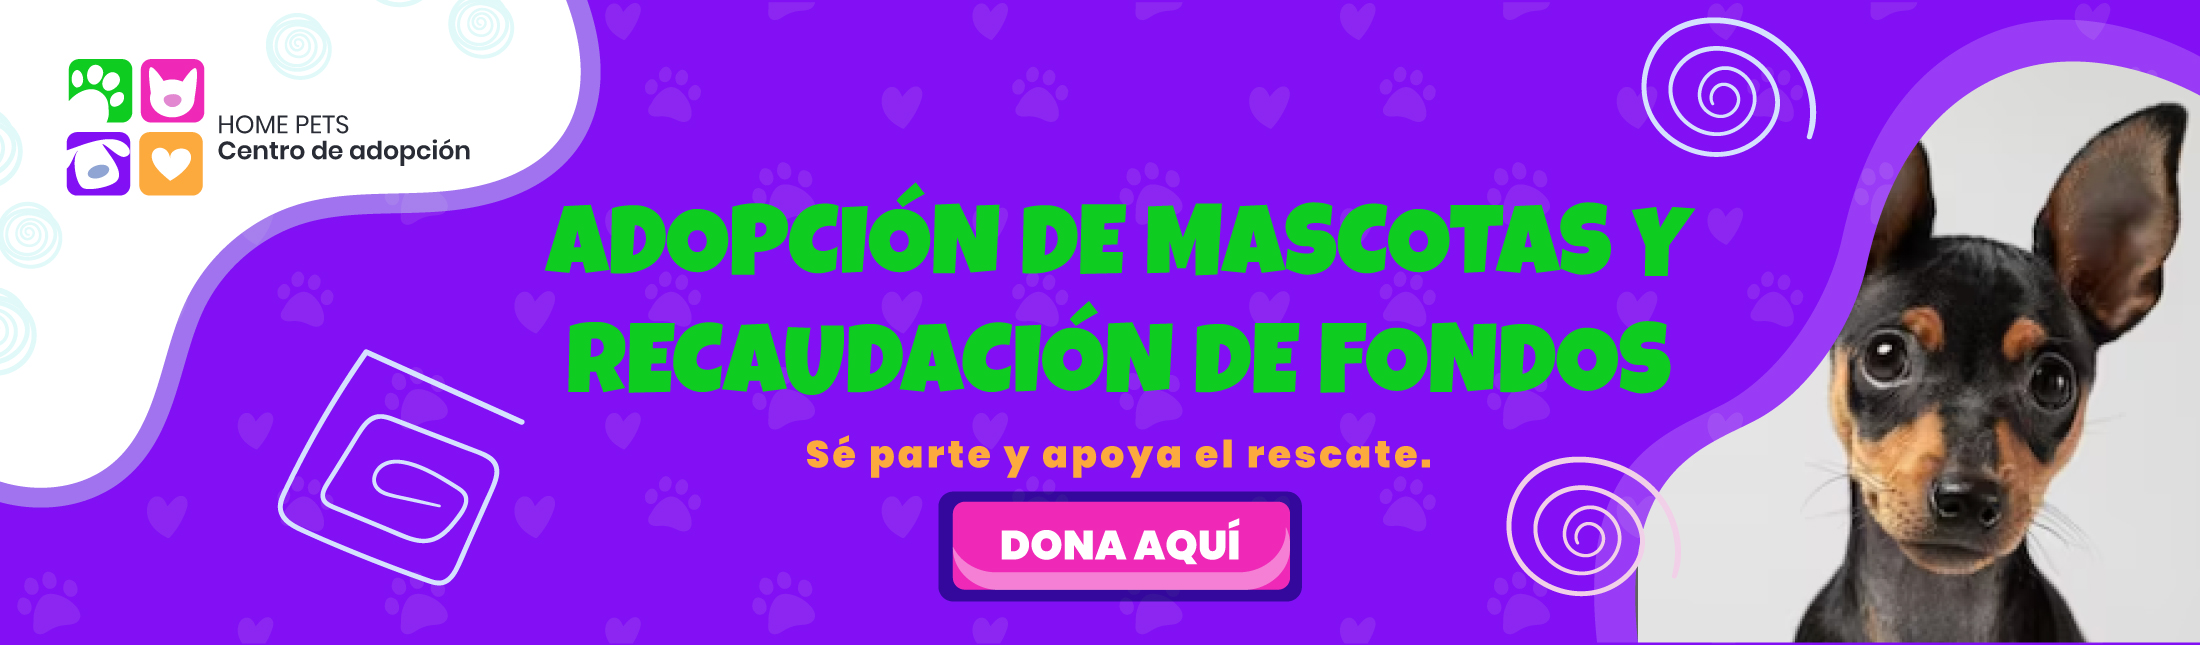
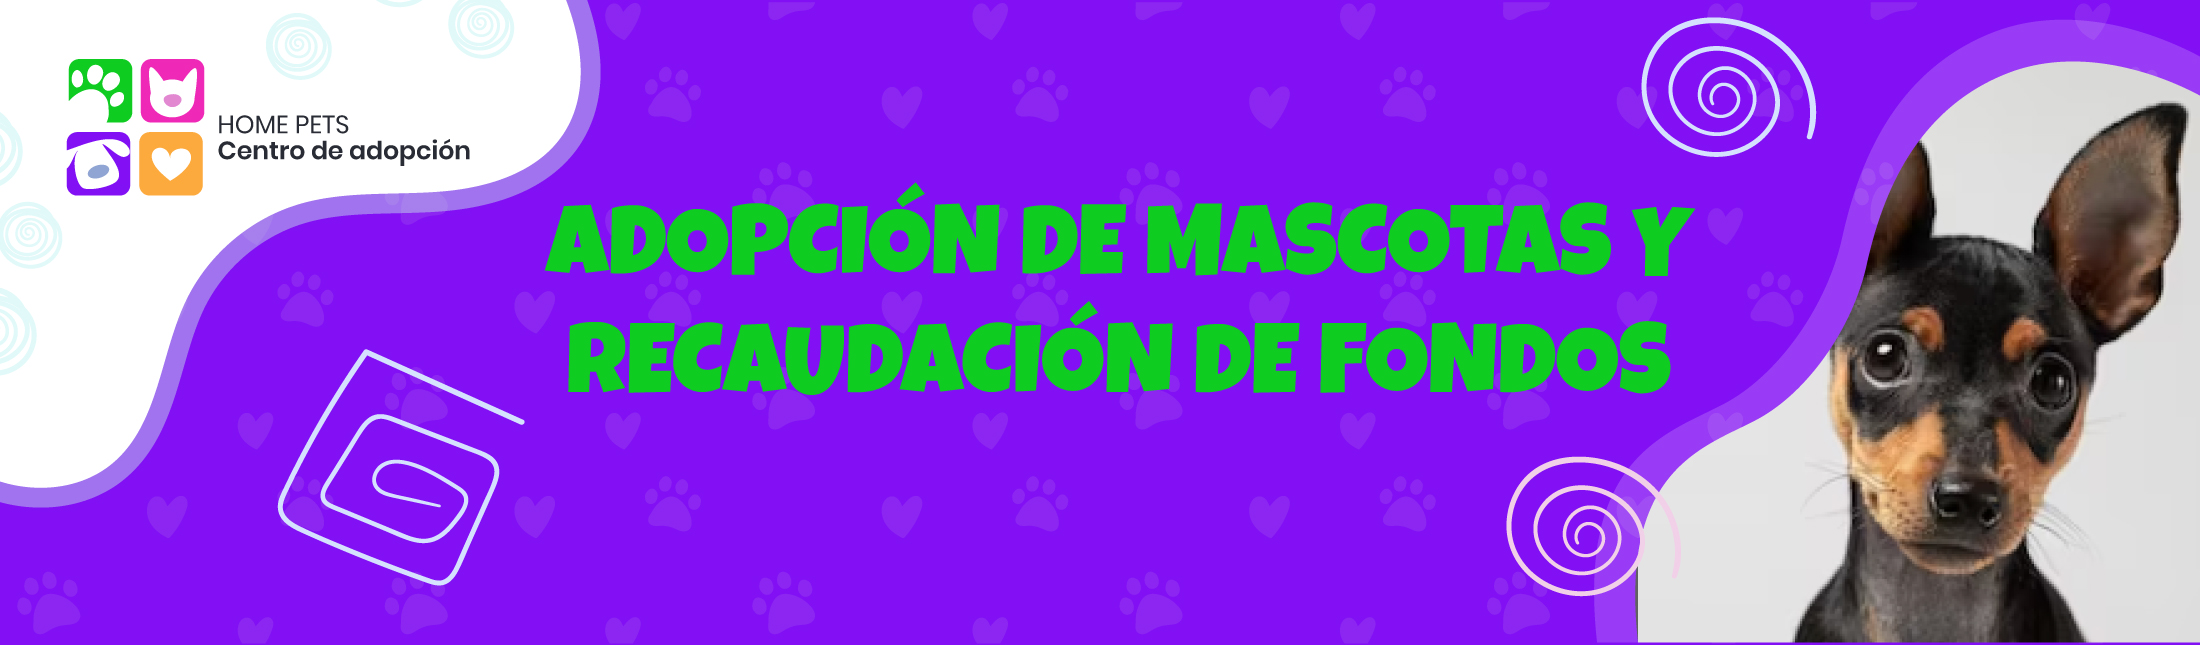
coni ultimo lo juro

Changed region(s): [[0.3709, 0.6822, 0.6491, 0.9302]]

diff --git a/index.html b/index.html
@@ -25,7 +25,7 @@
                         <ul class="dropdown-menu" aria-labelledby="navbarDropdown">
                           <li><a class="dropdown-item" href="./perros.html">PERROS</a></li>
                           <li><a class="dropdown-item" href="#">PROXIMAMENTE</a></li>
-                          <li><a class="dropdown-item" href="#">CONTRIBUIR</a></li>
+                          <li><a class="dropdown-item" href="./donacion.html">DONA</a></li>
                         </ul>
                         <li class="nav-item">
                           <a class="nav-link" href="./quienesomos.html">·QUIENES SOMOS·</a>
@@ -49,6 +49,7 @@
           <div class="carousel-item" data-bs-interval="2000">
             <img src="./assets/img/BANNER2.jpg" class="d-block w-100" alt="1">
             <div class="carousel-caption d-none d-md-block">
+              <a href="./donacion.html" class="btn"><img src="./assets/img/dona.png"></a>
             </div>
           </div>
         </div>
@@ -66,63 +67,61 @@
 <div class="container mt-3">
   <div class="row justify-content-center">
     <div class="col-8">
-      <h1> Nunca es tarde para agrandar tu familia </h1>
+      <h1> ¿CUÁLES SON LOS REQUISITOS PARA ADOPTAR UN PERRO O UN GATO? </h1>
       <ul class="list-group">
-        <li class="list-group-item">An item</li>
-        <li class="list-group-item">A second item</li>
-        <li class="list-group-item">A third item</li>
-        <li class="list-group-item">A fourth item</li>
-        <li class="list-group-item">And a fifth one</li>
+        <li class="list-group-item">1. Para encontrar al perro o gato ideal para ti, tendrás que investigar un poco.</li>
+        <li class="list-group-item">2. Para adoptar puedes hacerlo por dos vías: refugios o particulares.</li>
+        <li class="list-group-item">3. Dependiendo de la vía que sigas, serán distintos los requisitos que deberás cumplir.</li>
+        <li class="list-group-item">4. Adaptar tu hogar para la llegada de una nueva mascota.</li>
+        <li class="list-group-item">5. Contemplar los cuidados que necesitará tu mascota.</li>
       </ul>
     </div>
   </div>
   <div class="row mt-4">
     <div class="col-4"><div class="card">
-      <img class="card-img-top" src="./assets/img/perro1.png" alt="GUAU GUAU">
+      <img class="card-img-top" src="./assets/img/a1.png" alt="ADOPTADA">
       <div class="card-body">
-        <h5 class="card-title">GUAU GUAU</h5>
-        <p class="card-text">GUAU GUAU</p>
-        <a href="#" class="btn btn-primary">GUAU GUAU</a>
+        <h5 class="card-title">PRINCESA</h5>
+        <p class="card-text">Princesa encontro una bella familia que la saca a pasear con sus bellos trajes que le hace su madre, antes muerta que sencilla.</p>
+        <a href="#" class="btn btn-primary">ADOPTA</a>
       </div>
     </div>
   </div>
     <div class="col-4"><div class="card">
-  <img class="card-img-top" src="./assets/img/perro2.png" alt="GUAU">
+  <img class="card-img-top" src="./assets/img/a2.png" alt="ADOPTADA">
   <div class="card-body">
-    <h5 class="card-title">GUAU</h5>
-    <p class="card-text">GUAAAAAAUUU</p>
-    <a href="#" class="btn btn-primary">WOOF</a>
+    <h5 class="card-title">DON JUAN</h5>
+    <p class="card-text">Don Juan dejo de pedir comida en un carrito y ahora le tienen una camita al lado de la ventana donde puede comer su huesito todas las tardes.</p>
+    <a href="#" class="btn btn-primary">ADOPTA</a>
   </div>
 </div>
 </div>
     <div class="col-4"><div class="card">
-      <img class="card-img-top" src="./assets/img/perro3.png" alt="Card image cap">
+      <img class="card-img-top" src="./assets/img/a3.png" alt="ADOPTADA">
       <div class="card-body">
-        <h5 class="card-title">WOOOF</h5>
-        <p class="card-text">WOOOOOOOOOOOOOF</p>
-        <a href="#" class="btn btn-primary">WOOOOF</a>
+        <h5 class="card-title">CHOCOLITO</h5>
+        <p class="card-text">Chocolito encontro nuevos hermanos perrunos y humanos con los que juega todos los días en el patio de su casa, aunque prefiere estar acostado.</p>
+        <a href="#" class="btn btn-primary">ADOPTA</a>
       </div>
     </div>
   </div>
   </div>
   <div class="row mt-3">
     <div class="col-9">
-         <h2>Lorem ipsum, dolor sit amet consectetur adipisicing elit.</h2>
-         <p>Lorem, ipsum dolor sit amet consectetur adipisicing elit. Nesciunt, possimus et ipsam libero reiciendis pariatur. Labore natus incidunt consequatur blanditiis, dignissimos deserunt laborum unde repellendus aspernatur doloremque aperiam distinctio minus.
-          <p>Lorem ipsum dolor sit amet consectetur, adipisicing elit. Ipsa dolor, perferendis reprehenderit, quibusdam adipisci officia minus, ad tempora odit nemo vero qui nihil delectus architecto dolorum sunt iusto. Atque, possimus.</p>
+         <h2>¿Qué debe comer un perro?</h2>
+         <p>Carne, arroz y pescado, entre los mejores alimentos para los perros
+          Los alimentos que aparecen sobre el apartado verde, es decir, aquellos que los perros pueden comer sin ningún problema, son los siguientes: arroz, lechuga, plátano, zanahoria, pera, melón, carne, manteca de cacahuete, pescado y espinacas.</p>
          </p>
 
+        
          <div> 
-          <button type="button" class="btn btn-secondary">COLABORA</button>
-          <button type="button" class="btn btn-outline-light">COMPARTE</button>
+          <a class="btn btn-secondary" href="./donacion.html">DONA</a>
+          <a class="btn btn-secondary" href="https://instagram.com/">COMPARTE</a>
         </div>
-
-
-
     </div>
     <div class="col-3">
 
-      <img src="./assets/img/perro6.png" class="img-fluid rounded">
+      <img src="./assets/img/PMEME.jpg" class="img-fluid rounded">
     </div>
   </div>
 

diff --git a/donacion.html b/donacion.html
@@ -1,0 +1,47 @@
+<!DOCTYPE html>
+<html lang="en">
+<head>
+    <meta charset="UTF-8">
+    <meta http-equiv="X-UA-Compatible" content="IE=edge">
+    <meta name="viewport" content="width=device-width, initial-scale=1.0">
+    <title>DONACIÓN</title>
+    <link rel="stylesheet" href="./bootstrap.min.css">
+</head>
+<body>
+    <div class="container-fluid bg-primary">
+        <div class="container-fluid">
+            <nav class="navbar navbar-expand-lg navbar-dark">
+                <li><a class="navbar-brand" href="./index.html">HOME PETS</a></li>
+                <button class="navbar-toggler" type="button" data-bs-toggle="collapse" data-bs-target="#navbarSupportedContent" aria-controls="navbarSupportedContent" aria-expanded="false" aria-label="Toggle navigation">
+                  <span class="navbar-toggler-icon"></span>
+                </button>
+                <div class="collapse navbar-collapse" id="navbarSupportedContent">
+                    <ul class="navbar-nav ms-auto mb-7 mb-lg-2"> 
+                      <li class="nav-item dropdown">
+                        <a class="nav-link dropdown-toggle" href="#" id="navbarDropdown" role="button" data-bs-toggle="dropdown" aria-expanded="false">
+                          MASCOTAS
+                        </a>
+                        <ul class="dropdown-menu" aria-labelledby="navbarDropdown">
+                          <li><a class="dropdown-item" href="./perros.html">PERROS</a></li>
+                          <li><a class="dropdown-item" href="#">PROXIMAMENTE</a></li>
+                          <li><a class="dropdown-item" href="#">CONTRIBUIR</a></li>
+                        </ul>
+                        <li class="nav-item">
+                          <a class="nav-link" href="./quienesomos.html">·QUIENES SOMOS·</a>
+                        </li>
+                      </li>
+                  </div>
+              </nav>
+    </div>
+    <div class="container-fluid p-1">
+        <div class="row justify-content-center">
+            <div class="col-5">
+              <h1> HAZ TU DONACIÓN </h1>
+                <a href="https://www.bancoestado.cl/" class="btn"><img src="./assets/img/logo-hp.png"></a>
+            </div>
+        </div>  
+    </div>    
+    <div class="row justify-content-center mt-5 pb-12"></div>
+    <script src="https://cdn.jsdelivr.net/npm/bootstrap@5.0.1/dist/js/bootstrap.bundle.min.js"></script>
+</body>
+</html>
